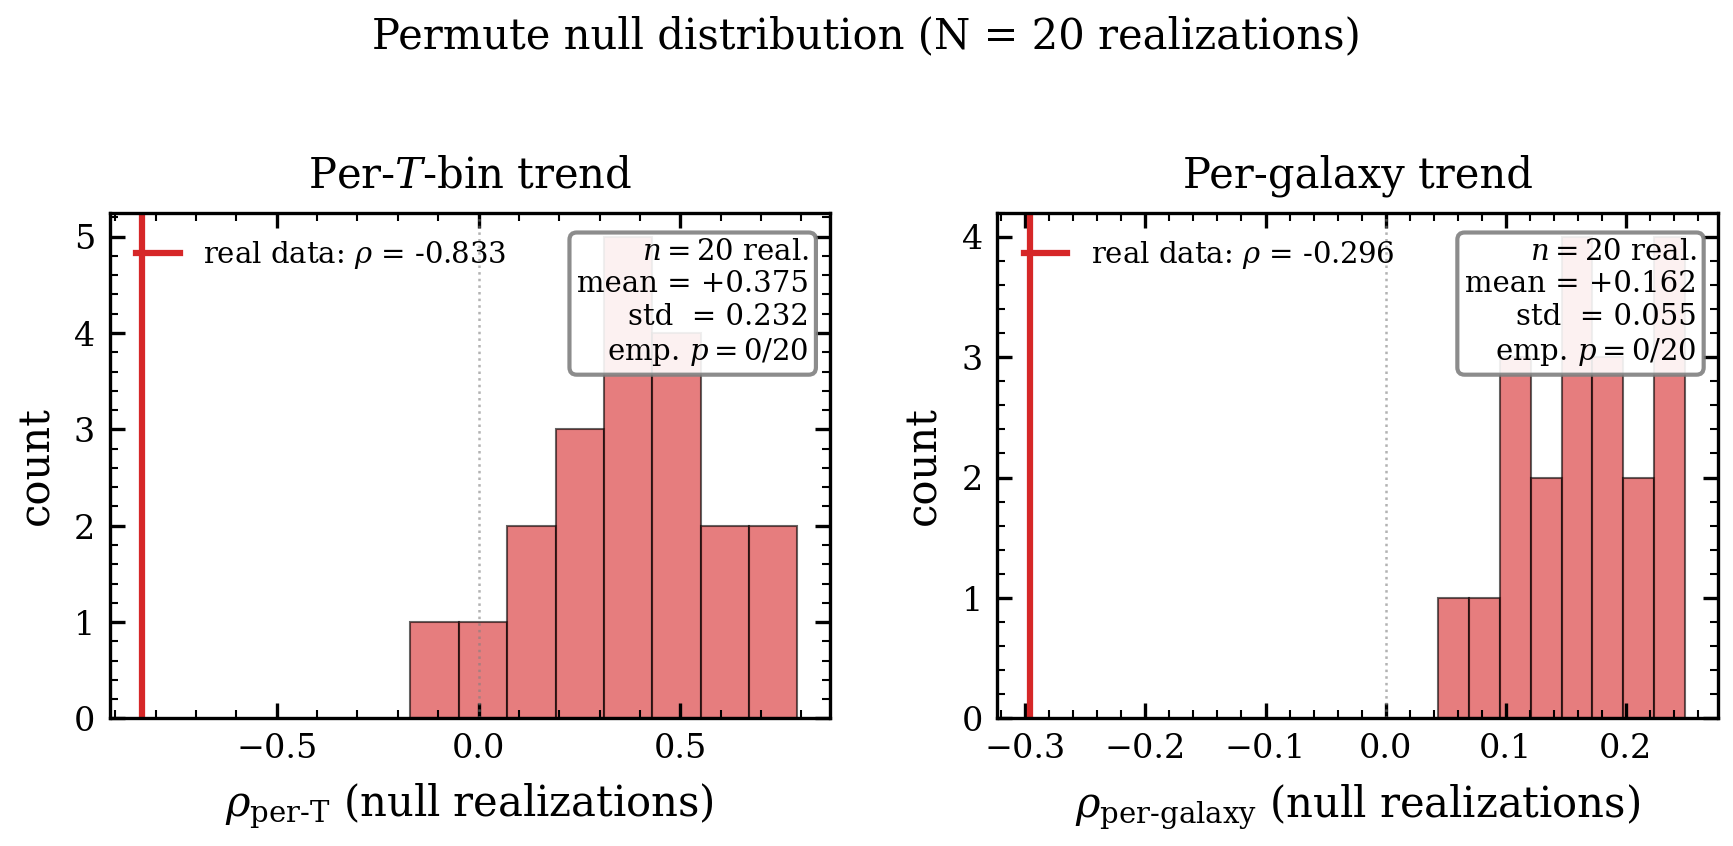
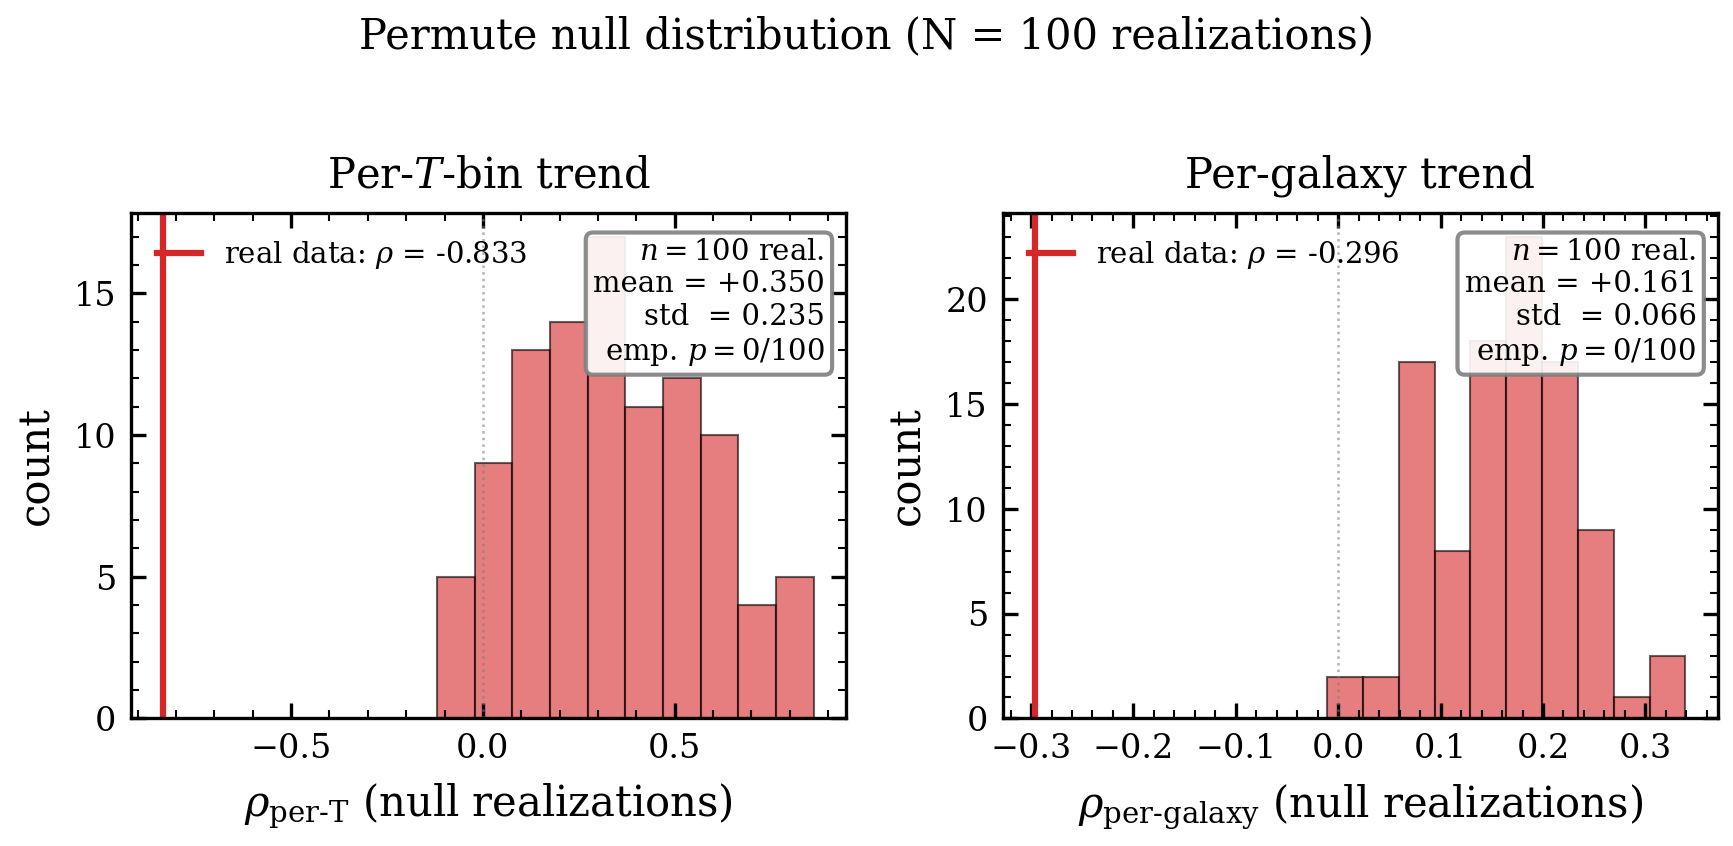
Building images of n=100 null test

diff --git a/scripts/make_figures.py b/scripts/make_figures.py
@@ -13,7 +13,7 @@ Usage:
 Data sources (resolved automatically from package layout or local fallback):
   ../antiwarp_per_shell.csv         (67 shells, 51 galaxies, 101-galaxy sample)
   ../galaxy_classifications.csv     (123 galaxies, full SPARC + classifications)
-  ../per_realization.csv            (N=20 null realizations; replaced by N=100 when run completes)
+  ../shell_reality_out_n100/per_realization.csv  (N=100 null realizations; scramble + permute, 100 each)
   ../upsilon_perturbation_per_galaxy.csv     (2040 rows: 102 galaxies × 20 realizations)
   ../distance_perturbation_per_galaxy.csv    (2040 rows)
   ../inclination_perturbation_per_galaxy.csv (1820 rows)
@@ -499,7 +499,11 @@ def fig_3_1_4():
 # ============================================================
 def _null_figure(null_type, name, title_suffix, color):
     """Generic null-distribution figure for scramble or permute."""
-    pr = pd.read_csv(_resolve_data('per_realization.csv'))
+    # Body text §3.2 quotes the N=100 batch (mean=-0.289 std=0.229 for scramble,
+    # mean=+0.350 std=0.235 for permute). That data lives in
+    # data/shell_reality_out_n100/per_realization.csv. Reading data/per_realization.csv
+    # would silently pick up an N=20 leftover and contradict the body.
+    pr = pd.read_csv(_resolve_data('shell_reality_out_n100/per_realization.csv'))
     sub = pr[pr['null_type'] == null_type]
     n_real = len(sub)
 